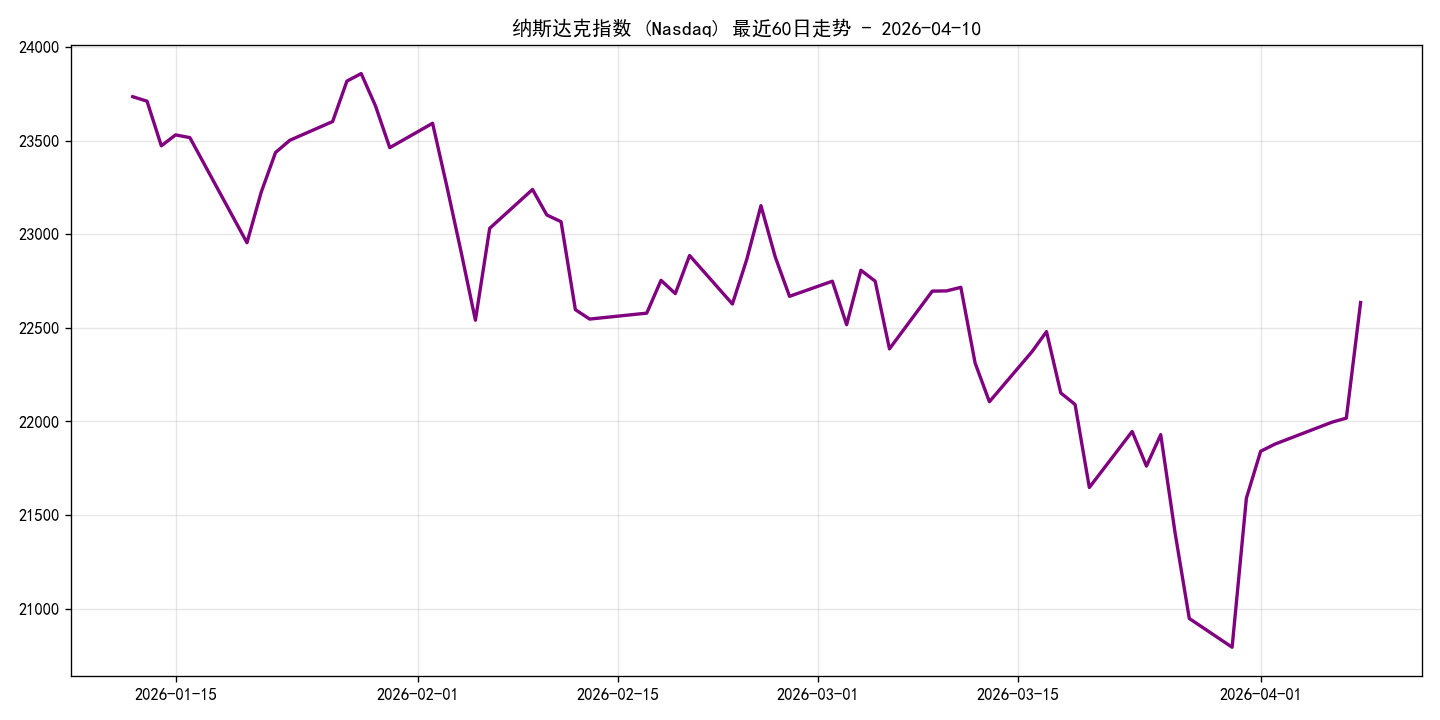
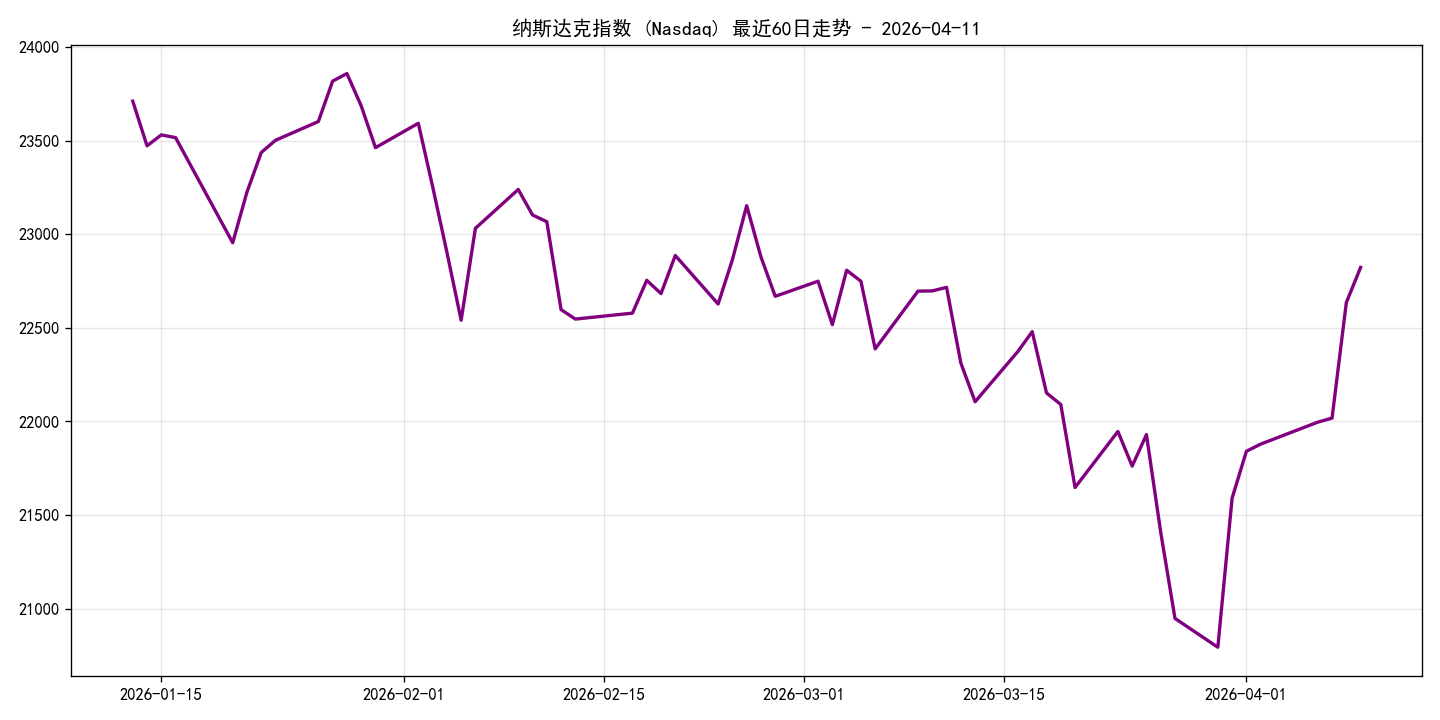
Auto: Daily US-share Recap Update 2026-04-10

diff --git a/usshare_recap.html b/usshare_recap.html
@@ -3,7 +3,7 @@
 <head>
     <meta charset="UTF-8">
     <meta name="viewport" content="width=device-width, initial-scale=1.0">
-    <title>美股收盘复盘 - 2026-04-10</title>
+    <title>美股收盘复盘 - 2026-04-11</title>
     <style>
         body { font-family: sans-serif; padding: 20px; line-height: 1.6; max-width: 800px; margin: 0 auto; background: #f9f9f9; }
         .card { background: white; padding: 20px; border-radius: 12px; shadow: 0 4px 10px rgba(0,0,0,0.1); }
@@ -15,10 +15,10 @@
 </head>
 <body>
     <div class="card">
-        <h1>美股收盘复盘 (2026-04-10)</h1>
+        <h1>美股收盘复盘 (2026-04-11)</h1>
         <div class="stat">
-            纳斯达克 (Nasdaq)：22634.99 
-            <span class="up">(+2.80%)</span>
+            纳斯达克 (Nasdaq)：22822.42 
+            <span class="up">(+0.83%)</span>
         </div>
         <p>美股上一交易日收盘呈 <strong>上涨</strong> 态势。</p>
         <img src="usshare_recap_trend.png" alt="Trend">
